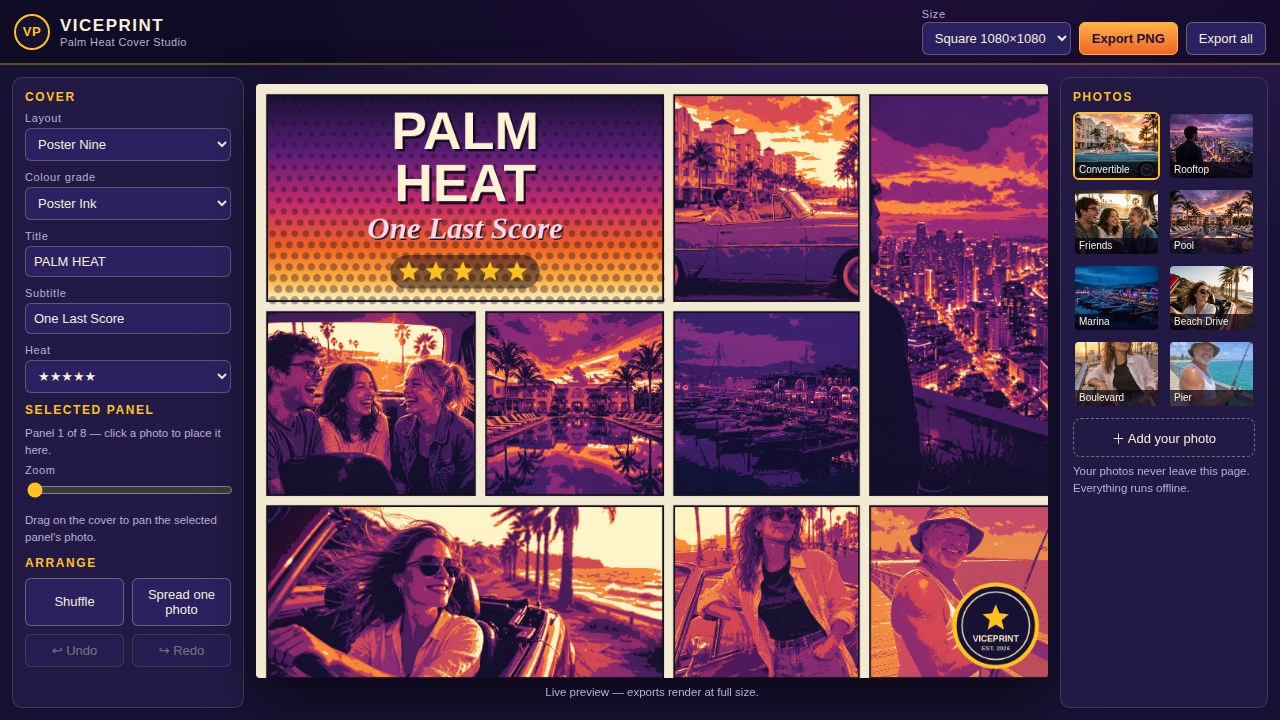
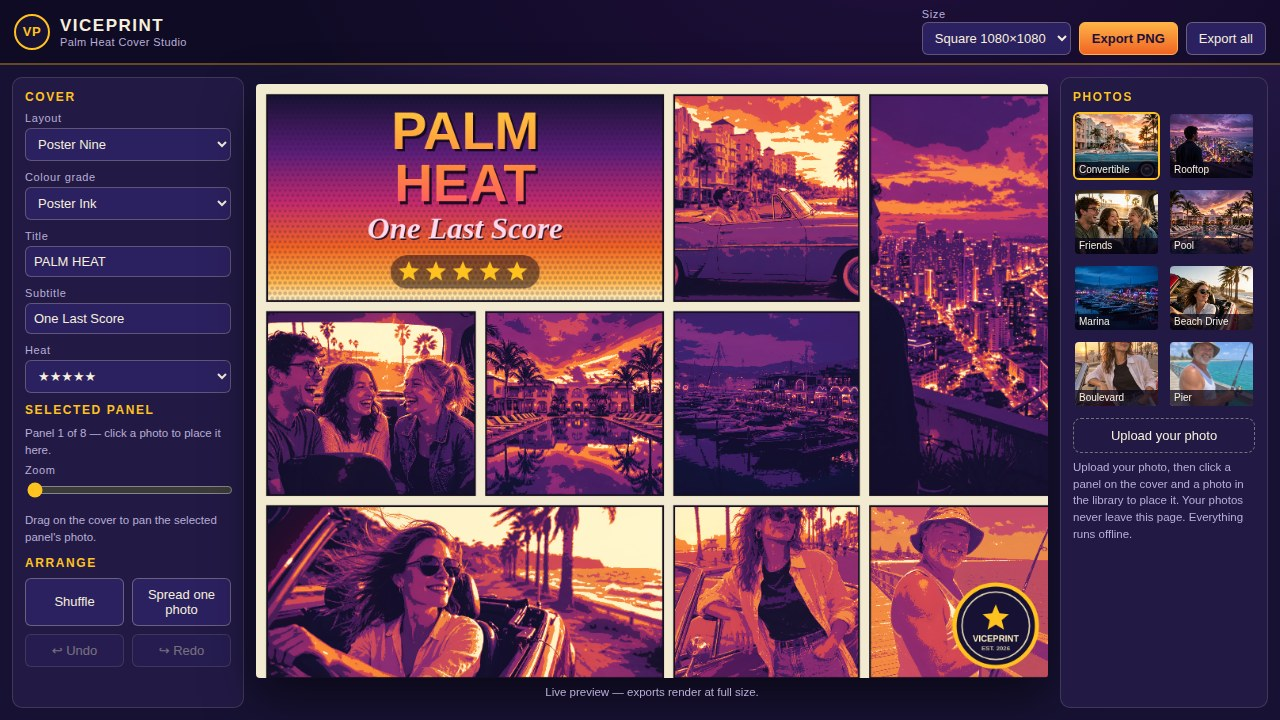
v7.1: gradient title block + legible photo-upload surface

Changed region(s): [[0.1875, 0.1528, 0.5312, 0.4278], [0.8438, 0.5806, 0.9688, 0.7639]]

diff --git a/app/src/cover.js b/app/src/cover.js
@@ -277,14 +277,16 @@ function halftoneField(ctx, rect, gradeName) {
   for (const [t, hex] of stops) grad.addColorStop(t, hex);
   ctx.fillStyle = grad;
   ctx.fillRect(rect.x, rect.y, rect.w, rect.h);
-  // dots grow toward the bottom of the block, like a printed screen
-  const step = Math.max(7, rect.w * 0.028);
-  ctx.fillStyle = 'rgba(16,8,30,0.35)';
+  // Fine dots, softly blended into the sunset gradient so the block
+  // reads as a neon-sunset glow rather than a coarse printed screen;
+  // they still grow gently toward the bottom of the block.
+  const step = Math.max(4, rect.w * 0.013);
+  ctx.fillStyle = 'rgba(24,8,44,0.20)';
   for (let row = 0, y = rect.y + step / 2; y < rect.y + rect.h; row++, y += step) {
-    const r = step * 0.16 + (row * step * 0.012);
+    const r = step * 0.14 + (row * step * 0.006);
     for (let x = rect.x + step / 2 + (row % 2) * step * 0.5; x < rect.x + rect.w; x += step) {
       ctx.beginPath();
-      ctx.arc(x, y, Math.min(r, step * 0.42), 0, Math.PI * 2);
+      ctx.arc(x, y, Math.min(r, step * 0.4), 0, Math.PI * 2);
       ctx.fill();
     }
   }
@@ -431,7 +433,14 @@ export function renderCover(ctx, W, H, state, images) {
     const subSize = tb.h * 0.15;
     const avail = tb.h - pad * 2 - starSize * 1.6 - subSize * 1.35;
     const base = Math.min(tb.h * 0.3, avail / Math.max(1, lines.length) / 0.98);
-    const used = drawTitle(ctx, lines, tb.x + tb.w / 2, tb.y + pad, tb.w * 0.92, base);
+    // Sunset-gradient lettering (amber -> orange -> pink -> purple),
+    // the classic GTA title treatment, over the halftone sunset block.
+    const titleGrad = ctx.createLinearGradient(0, tb.y, 0, tb.y + tb.h);
+    titleGrad.addColorStop(0, '#ffd23e');
+    titleGrad.addColorStop(0.35, '#ff8a3c');
+    titleGrad.addColorStop(0.65, '#ff3d7e');
+    titleGrad.addColorStop(1, '#7b2ff7');
+    const used = drawTitle(ctx, lines, tb.x + tb.w / 2, tb.y + pad, tb.w * 0.92, base, titleGrad);
     drawSubtitle(ctx, state.subtitle, tb.x + tb.w / 2, tb.y + pad + used + tb.h * 0.015, subSize);
     const pillW = starSize * 6.9;
     const pillH = starSize * 1.55;

diff --git a/app/src/main.js b/app/src/main.js
@@ -25,7 +25,7 @@ const subtitleInput = $('subtitleInput');
 const heatSel = $('heatSel');
 const zoomRange = $('zoomRange');
 const slotHint = $('slotHint');
-const thumbsEl = $('thumbs');
+const libraryEl = $('library');
 
 for (const [name, def] of Object.entries(LAYOUTS)) {
   const opt = document.createElement('option');
@@ -99,13 +99,13 @@ function syncControls() {
 
 function markActiveThumb() {
   const current = state.slots[state.layout][selected];
-  for (const el of thumbsEl.children) {
+  for (const el of libraryEl.children) {
     el.classList.toggle('active', el.dataset.photo === current);
   }
 }
 
 function buildThumbs() {
-  thumbsEl.innerHTML = '';
+  libraryEl.innerHTML = '';
   for (const def of PHOTO_DEFS) {
     const btn = document.createElement('button');
     btn.type = 'button';
@@ -122,7 +122,7 @@ function buildThumbs() {
         state.slots[state.layout][selected] = def.id;
       });
     });
-    thumbsEl.appendChild(btn);
+    libraryEl.appendChild(btn);
   }
 }
 

diff --git a/app/index.html b/app/index.html
@@ -84,12 +84,12 @@
 
   <aside class="panel library">
     <h2>Photos</h2>
-    <div id="thumbs" class="thumbs"></div>
-    <label class="upload">
-      <span>＋ Add your photo</span>
-      <input id="uploadInput" type="file" accept="image/*" hidden>
+    <div id="library" class="thumbs"></div>
+    <label class="upload" for="uploadInput">
+      <span>Upload your photo</span>
+      <input id="uploadInput" type="file" accept="image/*" aria-label="Upload your photo" hidden>
     </label>
-    <p class="hint">Your photos never leave this page. Everything runs offline.</p>
+    <p class="hint">Upload your photo, then click a panel on the cover and a photo in the library to place it. Your photos never leave this page. Everything runs offline.</p>
   </aside>
 </main>
 
